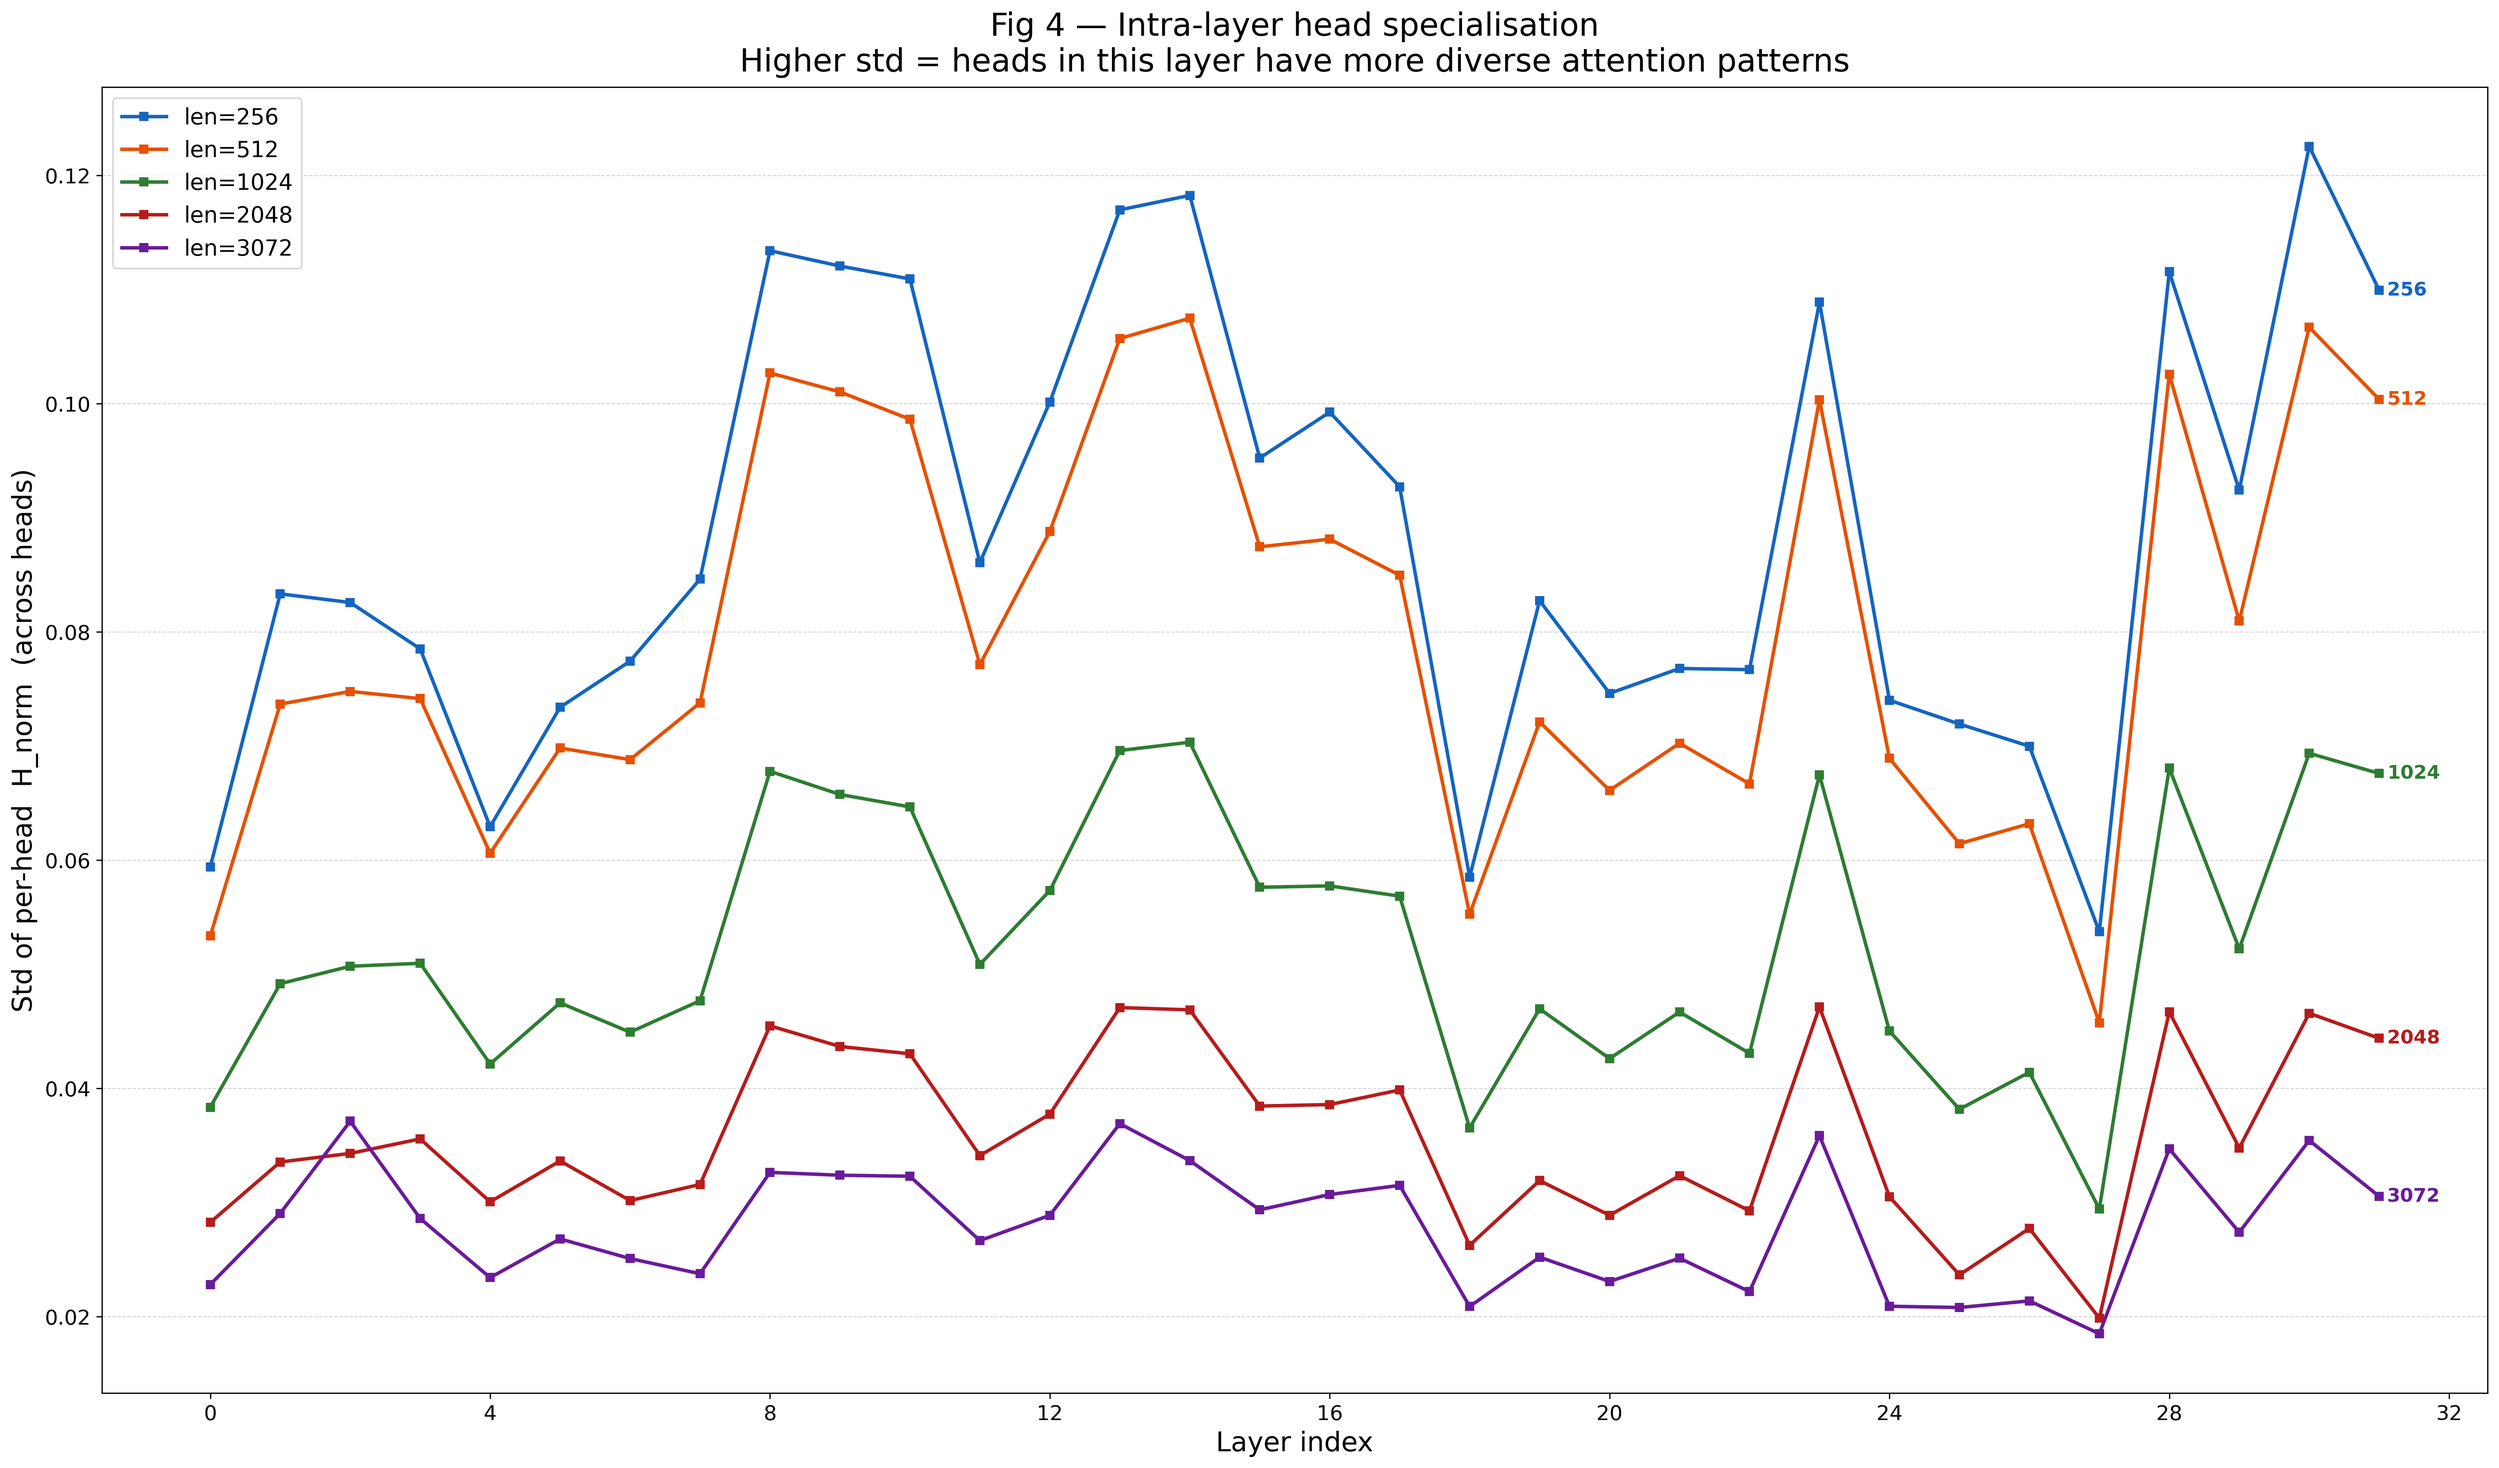
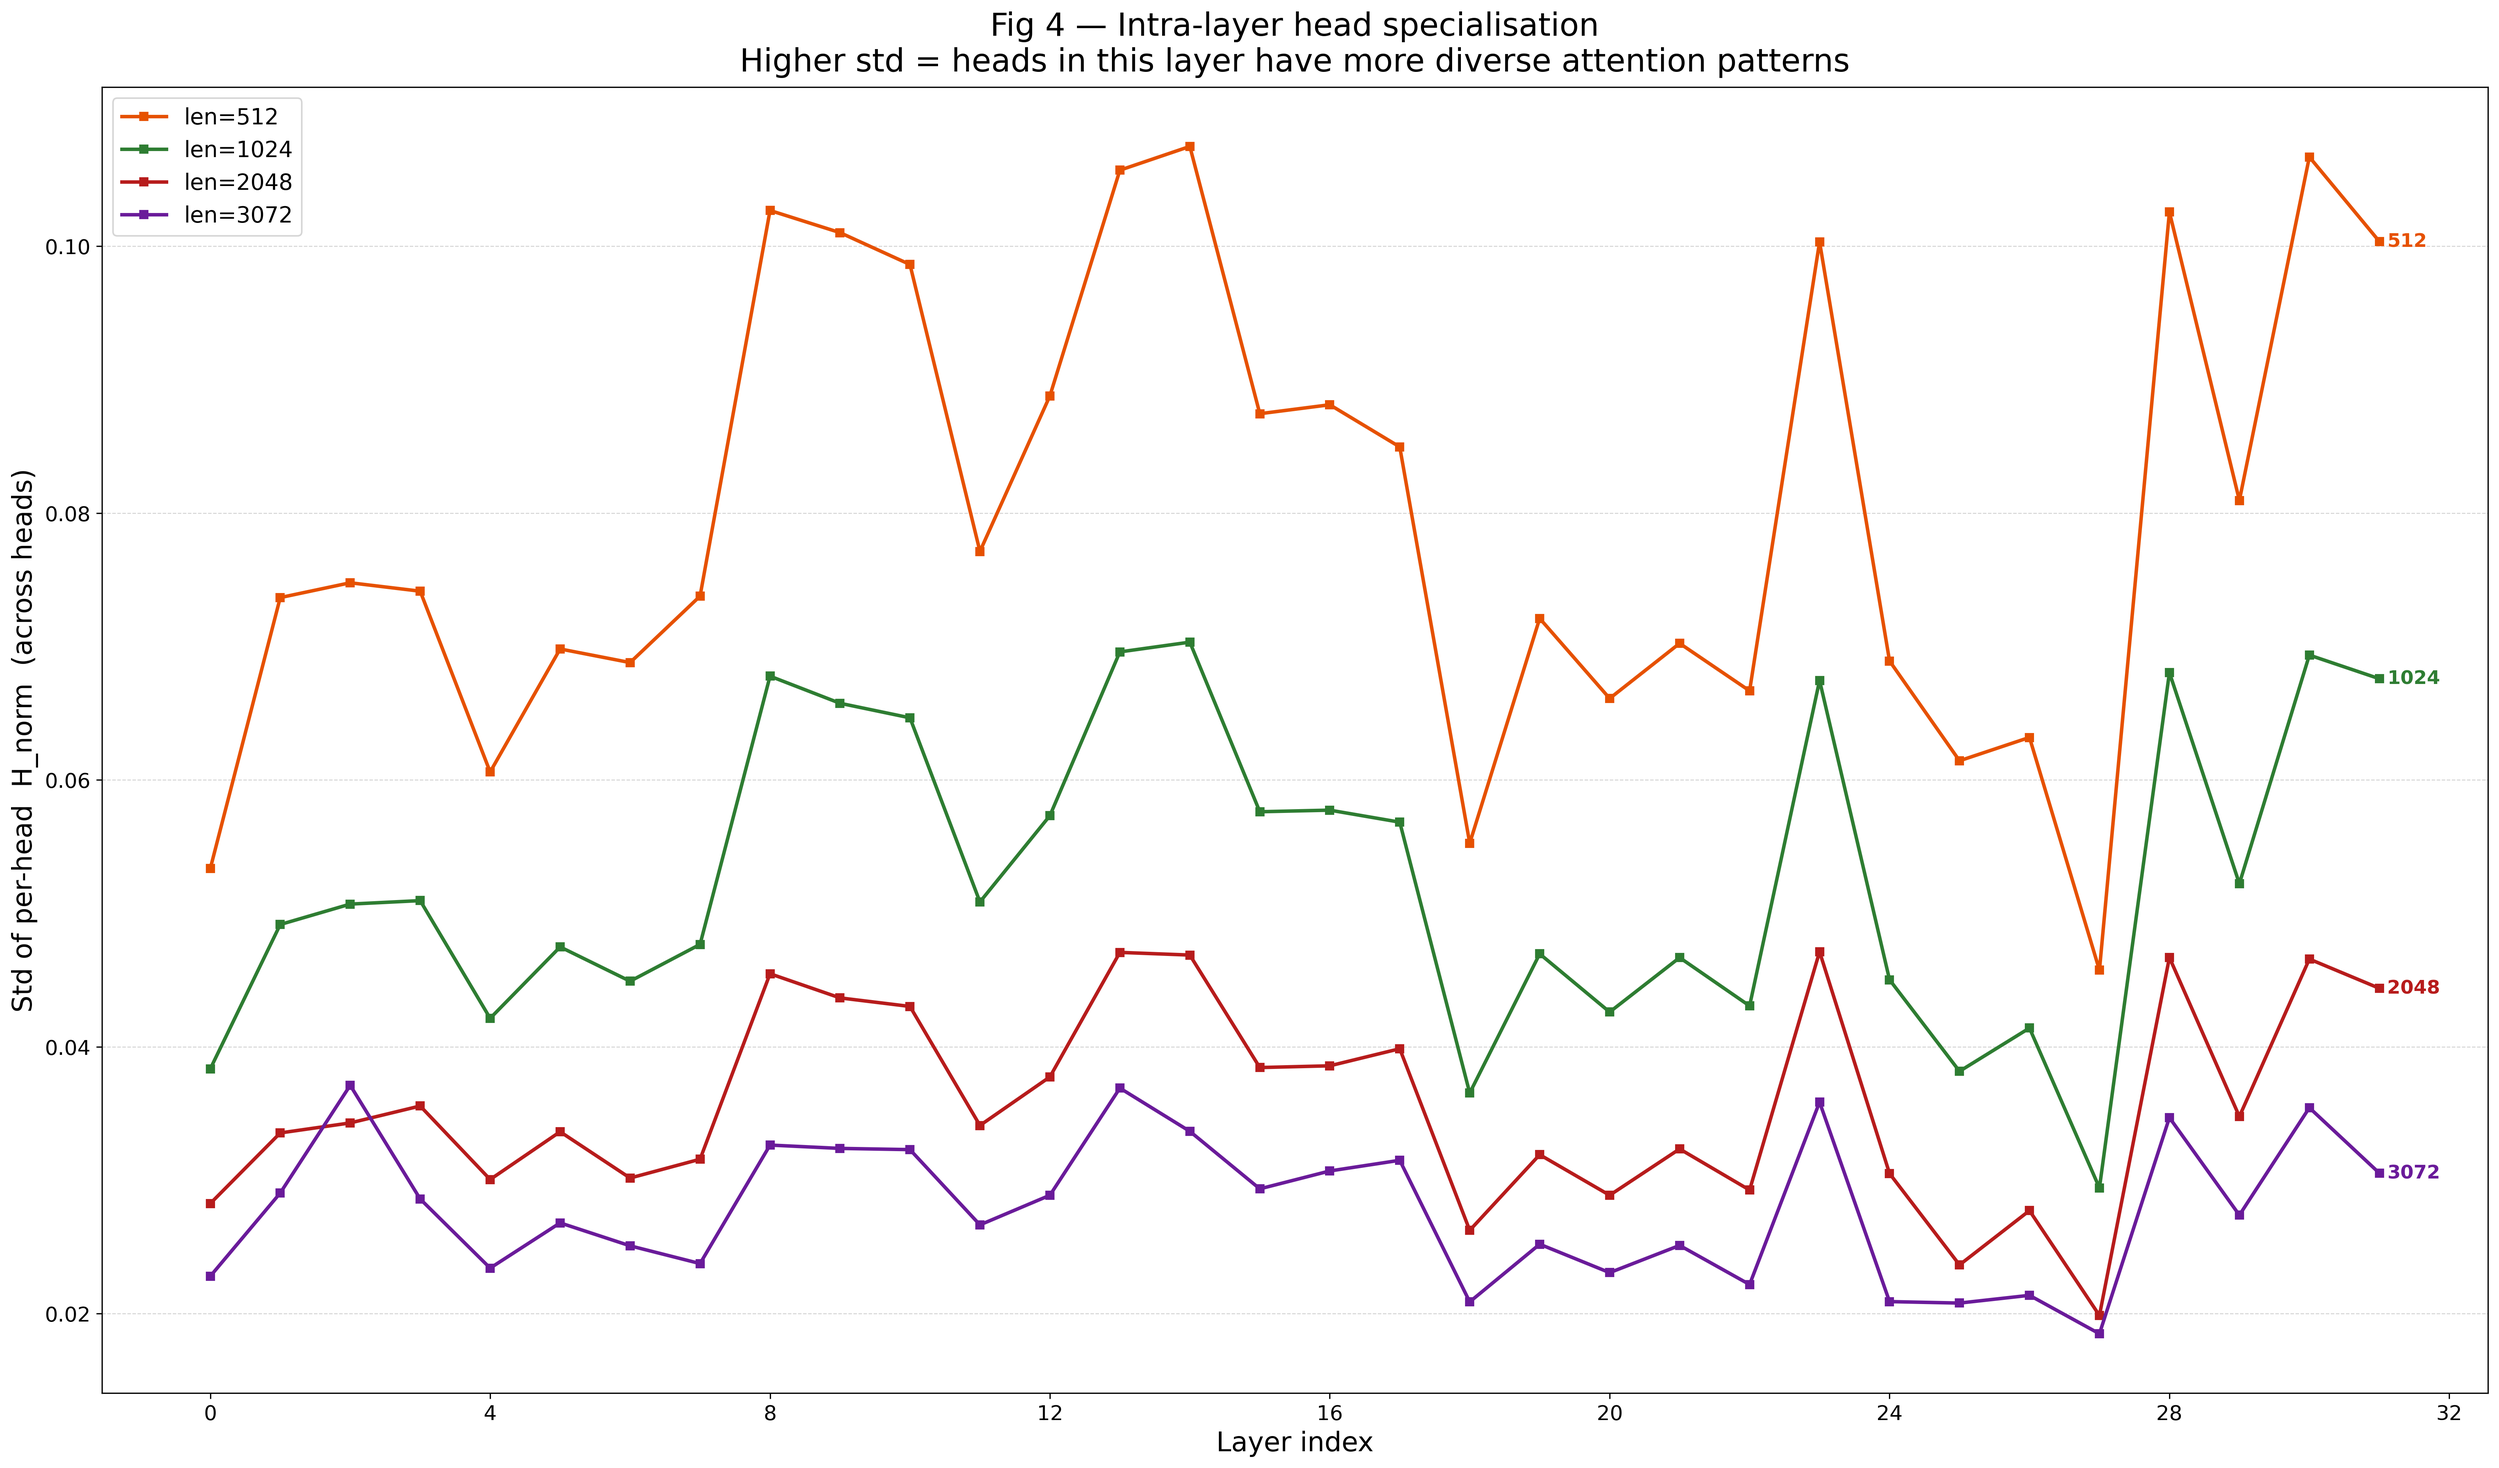
entropy again

diff --git a/eval/plot_entropy.py b/eval/plot_entropy.py
@@ -72,7 +72,7 @@ from scipy.stats import gaussian_kde  # for smooth violin approximation
 
 # Fixed colours for the four experiment sequence lengths
 _LENGTH_COLORS: dict[int, str] = {
-    256: "#1565C0",  # dark blue
+    # 256: "#1565C0",  # dark blue
     512: "#E65100",  # deep orange
     1024: "#2E7D32",  # dark green
     2048: "#B71C1C",  # dark red
@@ -872,7 +872,7 @@ def _plot_boxplot_violin_one(
         positions=layer_pos,
         widths=0.28,
         showfliers=False,
-        boxprops=dict(color=col, linewidth=1.8),
+        boxprops=dict(edgecolor=col, linewidth=1.8),
         whiskerprops=dict(color=col, linewidth=1.5, linestyle="--"),
         medianprops=dict(color="white", linewidth=2.5),
         capprops=dict(color=col, linewidth=1.8),

diff --git a/eval/entropy.py b/eval/entropy.py
@@ -43,7 +43,7 @@ import gc
 import os
 import sys
 
-# s.environ["CUDA_VISIBLE_DEVICES"] = "1,2,3"
+os.environ["CUDA_VISIBLE_DEVICES"] = "1,2,3"
 sys.path.insert(0, os.path.abspath(os.path.join(os.path.dirname(__file__), "..")))
 
 import json
@@ -513,7 +513,7 @@ if __name__ == "__main__":
     # experiment-spec defaults
     args.model_name = args.model_name or "huggyllama/llama-7b"
     args.rope_type = "none"
-    args.min_length = 256
+    args.min_length = 512
     args.max_length = 3072
 
     model, _ = load_model(args)
